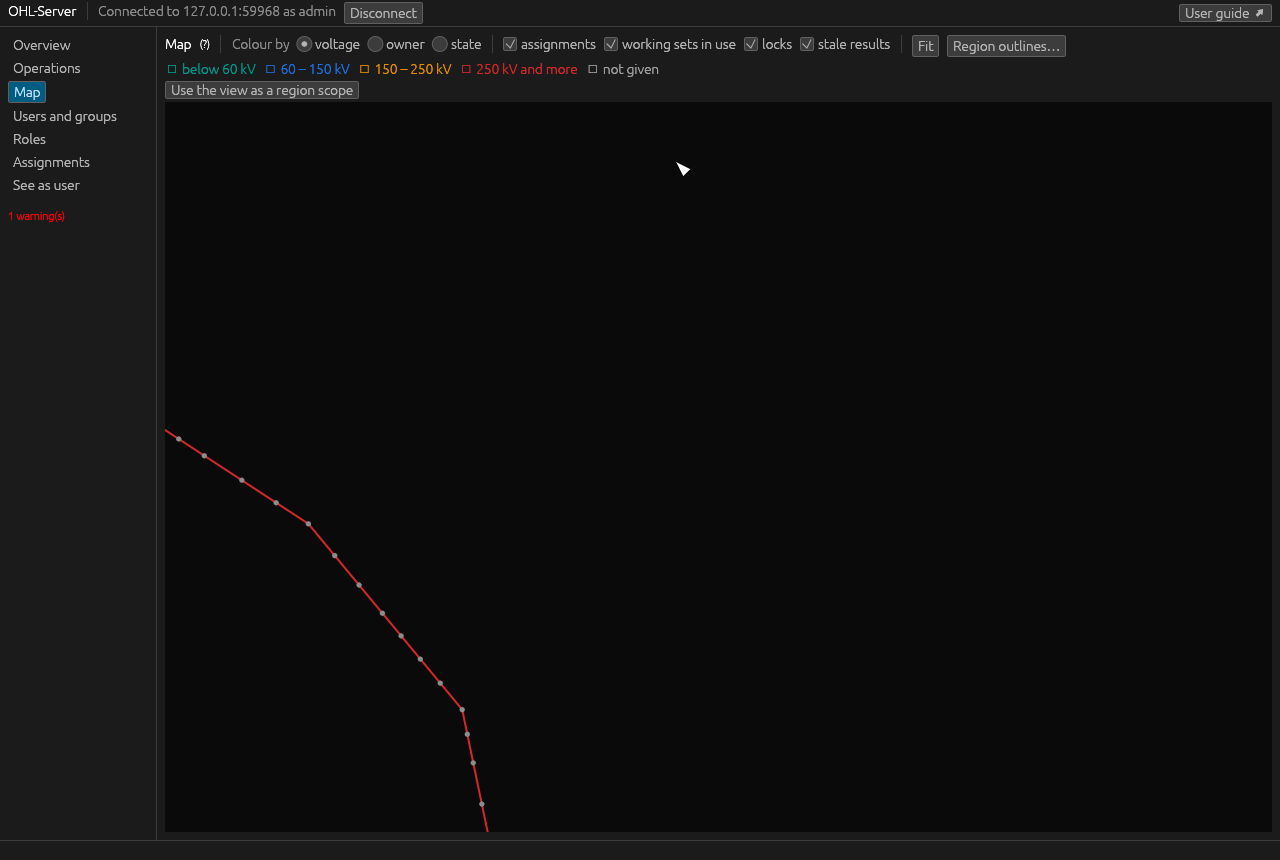
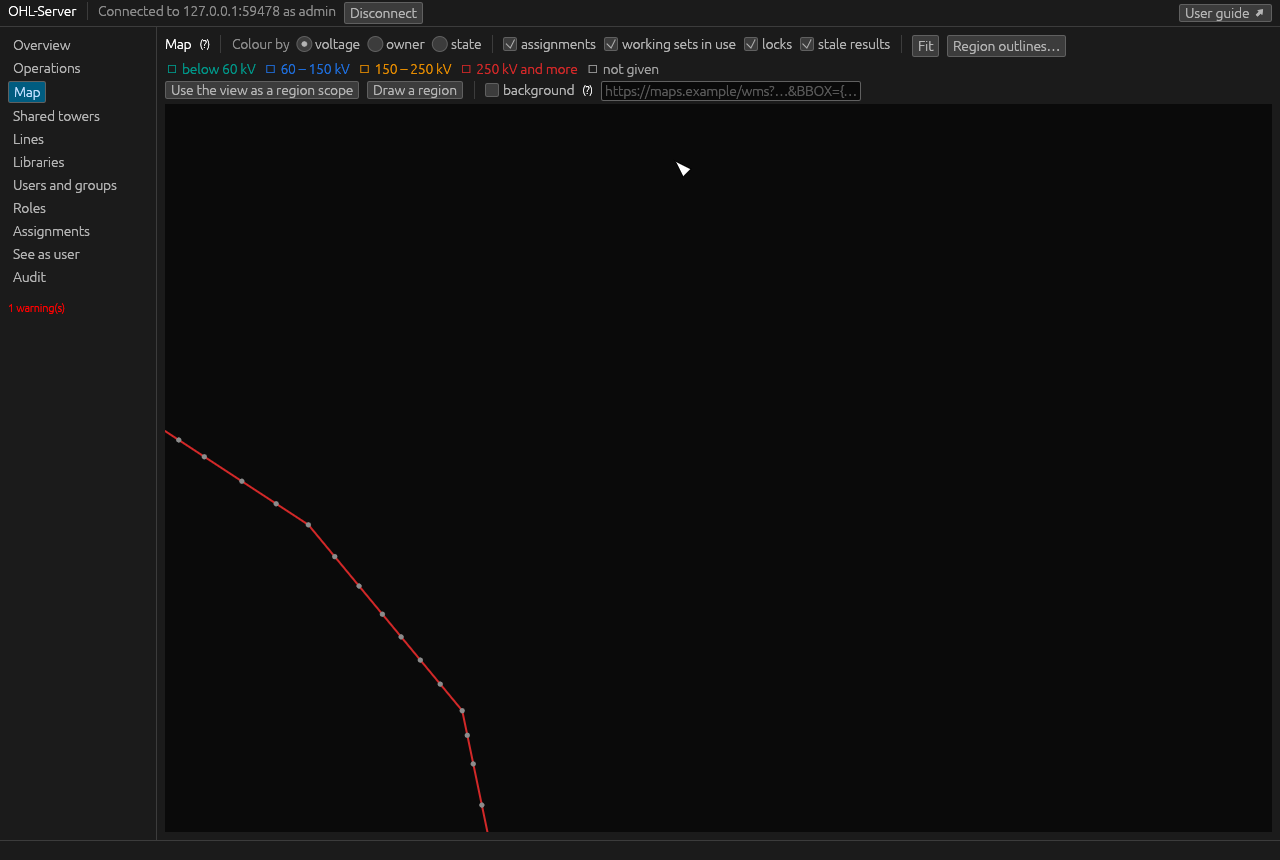
O17 admin app C–F: the user guide's pictures (synthetic network, as tester); settings asked again only after a setting changed

Changed region(s): [[0.0, 0.1209, 0.0938, 0.3628], [0.2812, 0.0907, 0.6562, 0.1209]]

diff --git a/apps/server/ohl-server-app/tests/stages_cf.rs b/apps/server/ohl-server-app/tests/stages_cf.rs
@@ -277,6 +277,7 @@ fn the_pages_of_stages_c_to_f() {
         [cx + w, cy + hh],
         [cx - w, cy + hh],
     ]);
+    conn(&mut h).data.said.clear();
     h.run_steps(3);
     shot(&mut h, "ohl-server-draw-region.png");
     h.state_mut().finish_region();
@@ -290,6 +291,11 @@ fn the_pages_of_stages_c_to_f() {
     assert_eq!(h.state().map.background_requests(), 1);
     let line = seen.lock().unwrap()[0].clone();
     assert!(line.starts_with("GET /wms?BBOX="), "{line}");
+    // The picture shows an example URL, never the test's local one.
+    h.state_mut().map.background.url =
+        "https://maps.example/wms?SERVICE=WMS&REQUEST=GetMap&BBOX={x0},{y0},{x1},{y1}&WIDTH={width}&HEIGHT={height}".into();
+    conn(&mut h).data.said.clear();
+    h.run_steps(2);
     shot(&mut h, "ohl-server-background.png");
     h.state_mut().map.background = Default::default();
 
@@ -346,7 +352,7 @@ fn the_pages_of_stages_c_to_f() {
     shot(&mut h, "ohl-server-libraries.png");
     h.state_mut().window = Some(Window::Library(LibraryAction::Refuse {
         id: req1,
-        note: String::new(),
+        note: "Not needed: the released wires cover it".into(),
     }));
     h.run_steps(3);
     shot(&mut h, "ohl-server-refuse.png");
@@ -408,6 +414,7 @@ fn the_pages_of_stages_c_to_f() {
     });
     open_page(&mut h, Page::SeeAs);
     h.state_mut().pages.see_as = "vic".into();
+    h.state_mut().pages.explain_line = t.codes[0].clone();
     conn(&mut h).ask_explain(
         "vic",
         Permission::Edit,

diff --git a/apps/server/ohl-server-app/src/conn.rs b/apps/server/ohl-server-app/src/conn.rs
@@ -649,7 +649,8 @@ impl Conn {
             (want, AdminReply::Done(text)) => {
                 d.said.push((text, false));
                 // What a change changes is shown again.
-                if matches!(want, Want::Act(_)) {
+                if let Want::Act(what) = &want {
+                    let setting = what.starts_with("setting ");
                     let admin = self.data.network_admin();
                     let cf = self.data.stages_cf();
                     self.waiting.retain(|_, w| {
@@ -662,7 +663,10 @@ impl Conn {
                     self.ask_map();
                     if admin {
                         self.ask_backups();
-                        self.ask_settings();
+                        if setting {
+                            self.waiting.retain(|_, w| *w != Want::Settings);
+                            self.ask_settings();
+                        }
                         if cf {
                             self.ask_identities();
                         }
